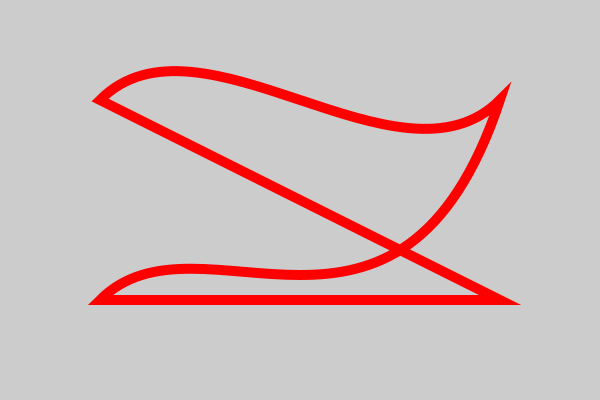
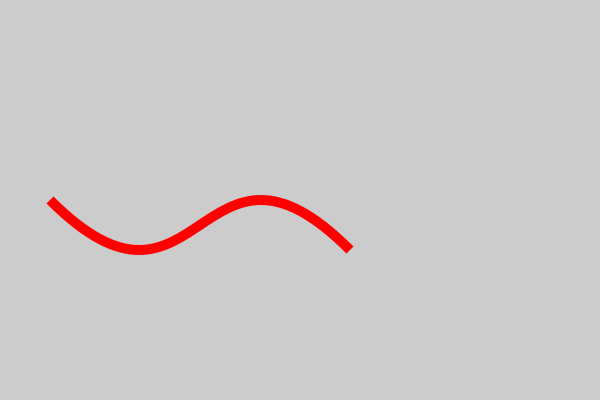
more

Changed region(s): [[0.06, 0.15, 0.87, 0.78]]

diff --git a/Todo1/daimond.py b/Todo1/daimond.py
@@ -1,0 +1,51 @@
+import cairo
+import math
+
+def draw_playing_card(output_path, width, height, corner_radius, symbol):
+    # Create a Cairo surface
+    surface = cairo.ImageSurface(cairo.Format.RGB24, 600, 600)
+    ctx = cairo.Context(surface)
+    ctx.set_source_rgb(0.8,0.8,0.8)
+    ctx.paint()
+
+    # Set line width and color (black)
+    ctx.set_line_width(2)
+    ctx.set_source_rgb(0, 0, 0)
+
+    # Draw the rounded rectangle
+    ctx.arc(width - corner_radius, corner_radius, corner_radius, -0.5 * math.pi, 0)
+    ctx.arc(width - corner_radius, height - corner_radius, corner_radius, 0, 0.5 * math.pi)
+    ctx.arc(corner_radius, height - corner_radius, corner_radius, 0.5 * math.pi, math.pi)
+    ctx.arc(corner_radius, corner_radius, corner_radius, math.pi, 1.5 * math.pi)
+    ctx.set_line_width(2)
+    ctx.set_source_rgb(0, 0, 0)
+    ctx.stroke()
+    ctx.close_path()
+
+    # Fill the rectangle
+    ctx.fill_preserve()
+
+    # Stroke the outline
+    ctx.stroke()
+
+    # Draw the symbol (letter 'A' for Ace in this case)
+    ctx.set_source_rgb(1, 0, 0)  # Red color for the symbol
+    ctx.set_font_size(40)
+    ctx.select_font_face("Sans", cairo.FONT_SLANT_NORMAL, cairo.FONT_WEIGHT_NORMAL)
+    text_extents = ctx.text_extents(symbol)
+    x = (width - text_extents.width) / 2
+    y = (height + text_extents.height) / 2
+    ctx.move_to(x, y)
+    ctx.show_text(symbol)
+
+    # Save the PNG file
+    surface.write_to_png(output_path)
+
+if __name__ == "__main__":
+    output_path = "daimond.png"
+    width = 200
+    height = 300
+    corner_radius = 20
+    symbol = "A"
+
+    draw_playing_card(output_path, width, height, corner_radius, symbol)

diff --git a/Todo1/arc.py b/Todo1/arc.py
@@ -2,15 +2,17 @@ import cairo
 import math
 
 # Set up pycairo
-surface = cairo. ImageSurface (cairo.FORMAT_RGB24, 600, 400)
+surface = cairo.ImageSurface(cairo.FORMAT_RGB24, 600, 400)
 ctx = cairo.Context (surface)
 ctx.set_source_rgb(0.8, 0.8, 0.8)
 ctx.paint()
 
+
 # Draw an arc
-ctx.arc(300, 200, 150, 0, math.pi/2)
+ctx.arc(200, 200, 150, 0, math.pi)
 ctx.set_source_rgb(1, 0, 0)
 ctx.set_line_width(10)
+ctx.close_path
 
 ctx.stroke()
 surface.write_to_png("arc.png")

diff --git a/Todo1/bezier.py b/Todo1/bezier.py
@@ -7,11 +7,8 @@ ctx.set_source_rgb(0.8, 0.8, 0.8)
 ctx.paint()
 
 # Bezier curve
-ctx.move_to(100, 100)
-ctx.curve_to(200, 0, 400, 200, 500, 100) 
-ctx.curve_to (400, 400, 200, 200, 100, 300)
-ctx.line_to(500, 300)
-ctx.close_path()
+ctx.move_to(50, 200)
+ctx.curve_to(200, 350, 200, 100, 350, 250) 
 ctx.set_source_rgb(1, 0, 0)
 ctx.set_line_width(10)
 ctx.stroke()
